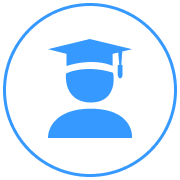
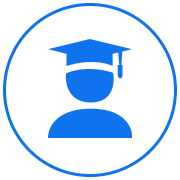
个人信息UI调整

Changed region(s): [[0.25, 0.2222, 0.75, 0.7778], [0.0, 0.0, 1.0, 1.0]]

diff --git a/lib/ui/mine/mine_setting/account_data/account_data_page.dart b/lib/ui/mine/mine_setting/account_data/account_data_page.dart
@@ -2,6 +2,7 @@ import 'package:flutter/cupertino.dart';
 import 'package:flutter/material.dart';
 import 'package:flutter/widgets.dart';
 import 'package:flutter_pickers/pickers.dart';
+import 'package:flutter_pickers/style/picker_style.dart';
 import 'package:get/get.dart';
 import 'package:guanjia/common/app_color.dart';
 import 'package:guanjia/common/app_text_style.dart';
@@ -12,6 +13,7 @@ import 'package:guanjia/ui/mine/mine_setting/account_data/widgets/account_data_i
 import 'package:guanjia/widgets/app_image.dart';
 import 'package:guanjia/common/utils/screen_adapt.dart';
 import 'package:guanjia/widgets/common_gradient_button.dart';
+import 'package:guanjia/widgets/edge_insets.dart';
 import 'package:guanjia/widgets/gradient_range_slider_thumb.dart';
 import 'package:guanjia/widgets/input_widget.dart';
 import 'package:guanjia/widgets/label_widget.dart';
@@ -53,8 +55,8 @@ class AccountDataPage extends StatelessWidget {
                     trailing: AppImage.network(
                       controller.avatarController.avatar.value,
                       borderRadius: BorderRadius.circular(4.rpx),
-                      width: 76.rpx,
-                      height: 76.rpx,
+                      width: 66.rpx,
+                      height: 66.rpx,
                     ),
                   ),
                   _padding(),
@@ -67,6 +69,8 @@ class AccountDataPage extends StatelessWidget {
                       textAlign: TextAlign.right,
                       fillColor: Colors.transparent,
                       contentPadding: EdgeInsets.zero,
+                      textStyle:
+                          AppTextStyle.fs16b.textColor(AppColor.blackBlue),
                     ),
                   ),
                   _padding(),
@@ -83,6 +87,22 @@ class AccountDataPage extends StatelessWidget {
                     onTap: () {
                       Pickers.showSinglePicker(
                         context,
+                        pickerStyle: PickerStyle(
+                          cancelButton: Padding(
+                            padding: FEdgeInsets(horizontal: 16.rpx),
+                            child: Text(
+                              '取消',
+                              style: AppTextStyle.fs14b.copyWith(color: AppColor.black999),
+                            ),
+                          ),
+                          commitButton: Padding(
+                            padding: FEdgeInsets(horizontal: 16.rpx),
+                            child: Text(
+                              '确定',
+                              style: AppTextStyle.fs14b,
+                            ),
+                          ),
+                        ),
                         selectData: info.age ?? 24,
                         onConfirm: (value, __) {
                           controller.onConfirmAge(value);
@@ -213,10 +233,12 @@ class AccountDataPage extends StatelessWidget {
                             return LabelWidget(
                               onTap: () => controller.onTapLabel(item),
                               item: item,
-                              selectedBackgroundColor: AppColor.primary,
+                              selectedBackgroundColor: AppColor.primaryBlue,
                               selectedTextColor: Colors.white,
-                              borderColor: AppColor.primary,
-                              textColor: AppColor.primary,
+                              borderColor: AppColor.primaryBlue,
+                              textColor: AppColor.primaryBlue,
+                              borderRadius: BorderRadius.circular(4.rpx),
+                              height: 42.rpx,
                             );
                           });
                         }),
@@ -288,15 +310,12 @@ class AccountDataPage extends StatelessWidget {
           children: [
             Text(
               title,
-              style:
-                  AppTextStyle.st.bold.size(16.rpx).textColor(AppColor.black3),
+              style: AppTextStyle.fs18b.textColor(AppColor.blackBlue),
             ),
             if (detail != null)
               Text(
                 detail,
-                style: AppTextStyle.st.bold
-                    .size(14.rpx)
-                    .textColor(AppColor.black3),
+                style: AppTextStyle.fs14b.textColor(AppColor.blackBlue),
               ),
           ],
         ),
@@ -310,8 +329,8 @@ class AccountDataPage extends StatelessWidget {
     final bool isSelect = info.likeSex == gender;
 
     final String title = gender.isMale ? S.current.male : S.current.female;
-    const String normalPath = "assets/images/mine/choose_normal.png";
-    const String selectPath = "assets/images/mine/choose_select.png";
+    const String normalPath = "assets/images/mine/gender_choose_normal.png";
+    const String selectPath = "assets/images/mine/gender_choose_select.png";
 
     return GestureDetector(
       onTap: () => controller.onTapLikeGender(gender),
@@ -321,14 +340,13 @@ class AccountDataPage extends StatelessWidget {
         children: [
           AppImage.asset(
             isSelect ? selectPath : normalPath,
-            width: 24.rpx,
-            height: 24.rpx,
+            width: 20.rpx,
+            height: 20.rpx,
           ),
           SizedBox(width: 4.rpx),
           Text(title,
-              style: AppTextStyle.st.medium
-                  .size(14.rpx)
-                  .textColor(AppColor.black3)),
+              style: AppTextStyle.fs14b
+                  .textColor(AppColor.blackBlue)),
         ],
       ),
     );
@@ -371,9 +389,8 @@ class AccountDataPage extends StatelessWidget {
           SizedBox(height: 8.rpx),
           Text(
             title,
-            style: AppTextStyle.st.medium
-                .size(14.rpx)
-                .textColor(AppColor.black3)
+            style: AppTextStyle.fs12b
+                .textColor(AppColor.blackBlue)
                 .copyWith(height: 1),
           ),
         ],

diff --git a/lib/ui/mine/mine_setting/account_data/widgets/account_data_item.dart b/lib/ui/mine/mine_setting/account_data/widgets/account_data_item.dart
@@ -30,9 +30,8 @@ class AccountDataItem extends StatelessWidget {
     detailWidget() {
       return Text(
         detail ?? detailHintText ?? "",
-        style: AppTextStyle.st.medium
-            .size(14.rpx)
-            .textColor(detail != null ? AppColor.black3 : AppColor.black9),
+        style: AppTextStyle.fs14b
+            .textColor(detail != null ? AppColor.blackBlue : AppColor.black9),
       );
     }
 
@@ -53,9 +52,8 @@ class AccountDataItem extends StatelessWidget {
           children: [
             Text(
               title ?? "",
-              style: AppTextStyle.st.medium
-                  .size(14.rpx)
-                  .textColor(AppColor.black3),
+              style: AppTextStyle.fs14b
+                  .textColor(AppColor.tab),
             ),
             SizedBox(width: 8.rpx),
             Expanded(

diff --git a/lib/widgets/common_bottom_sheet.dart b/lib/widgets/common_bottom_sheet.dart
@@ -57,7 +57,7 @@ class CommonBottomSheet extends StatelessWidget {
                 child: Text(
                   titles.safeElementAt(index) ?? "",
                   style:
-                      AppTextStyle.st.size(14.rpx).textColor(AppColor.black3),
+                      AppTextStyle.fs14b.textColor(AppColor.black3),
                   textAlign: TextAlign.center,
                 ),
               ),
@@ -76,7 +76,7 @@ class CommonBottomSheet extends StatelessWidget {
                 child: Text(
                   S.current.cancel,
                   style:
-                      AppTextStyle.st.size(14.rpx).textColor(AppColor.black9),
+                      AppTextStyle.fs14b.textColor(AppColor.black9),
                   textAlign: TextAlign.center,
                 ),
               ),

diff --git a/lib/widgets/gradient_range_slider_thumb.dart b/lib/widgets/gradient_range_slider_thumb.dart
@@ -107,7 +107,8 @@ class CustomRangeSliderTrackShape extends RangeSliderTrackShape {
       trackRect.height,
     );
 
-    canvas.drawRect(trackRect, inactiveTrackPaint);
+    canvas.drawRRect(RRect.fromRectAndRadius(trackRect, Radius.circular(trackRect.height)), inactiveTrackPaint);
+    // canvas.drawRect(trackRect, inactiveTrackPaint);
     if (activeTrackRight > activeTrackLeft) {
       canvas.drawRect(activeTrackRect, activeTrackPaint);
     }

diff --git a/lib/widgets/label_widget.dart b/lib/widgets/label_widget.dart
@@ -68,8 +68,7 @@ class LabelWidget extends StatelessWidget {
           children: [
             Text(
               item.title,
-              style: AppTextStyle.st
-                  .size(14.rpx)
+              style: AppTextStyle.fs14b
                   .textColor(item.selected
                       ? selectedTextColor ?? AppColor.black3
                       : textColor ?? Colors.white)
